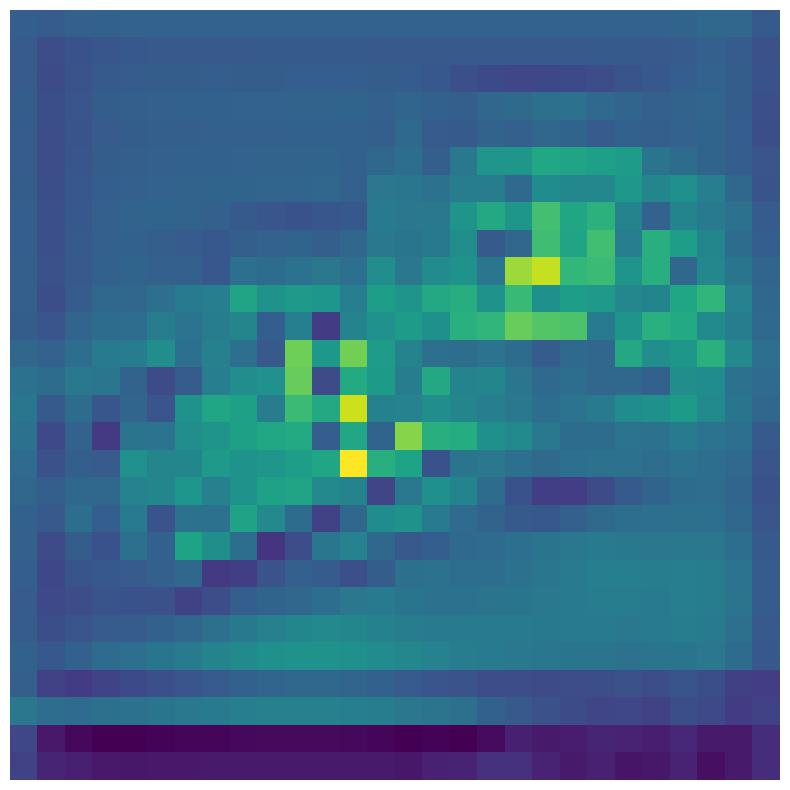
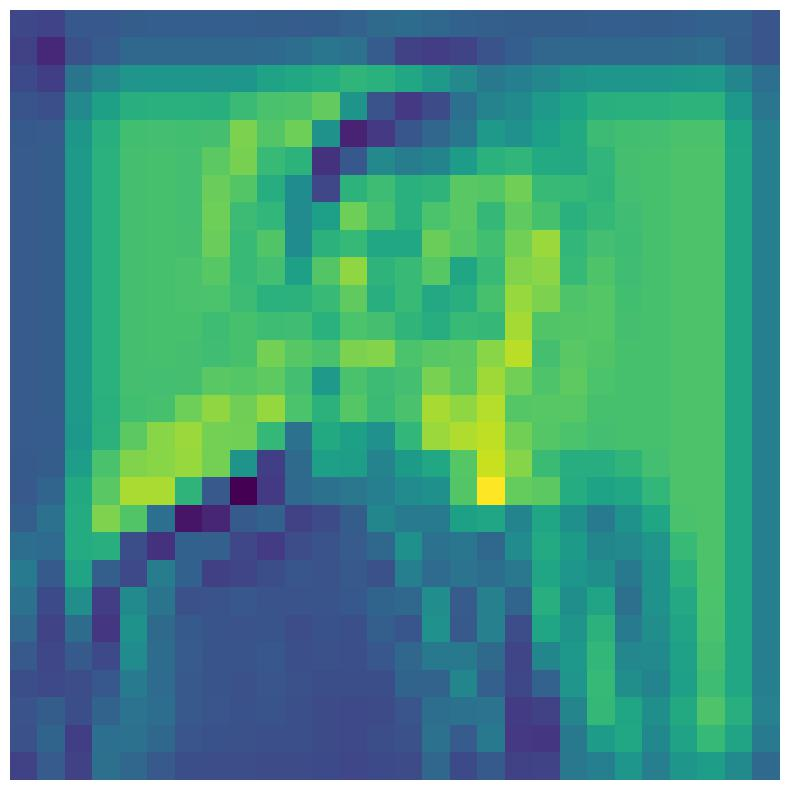
Added slider functionality

diff --git a/LayorProject.py b/LayorProject.py
@@ -89,13 +89,12 @@ def generate_feature_maps(im):
 
 # Gradio interface
 with gr.Blocks() as demo:
-
-    #Turn this into a drop down box 
-    layorNumber = gr.Number(label="Select Layer Number", default=0, step=1, minimum=0, maximum=48)
+    
+    layorNumber = gr.Slider(0, 16, value=4, label="Count", info="Choose between 0 and 16", step=1)
 
     with gr.Row():
         im = gr.Image()
-        im2 = gr.Image(type= 'filepath')
+        im2 = gr.Image(type= 'filepath',)
 
     def show_feature_maps(im, layorNumber):
         # Future if check for if all layors exist to run faster
